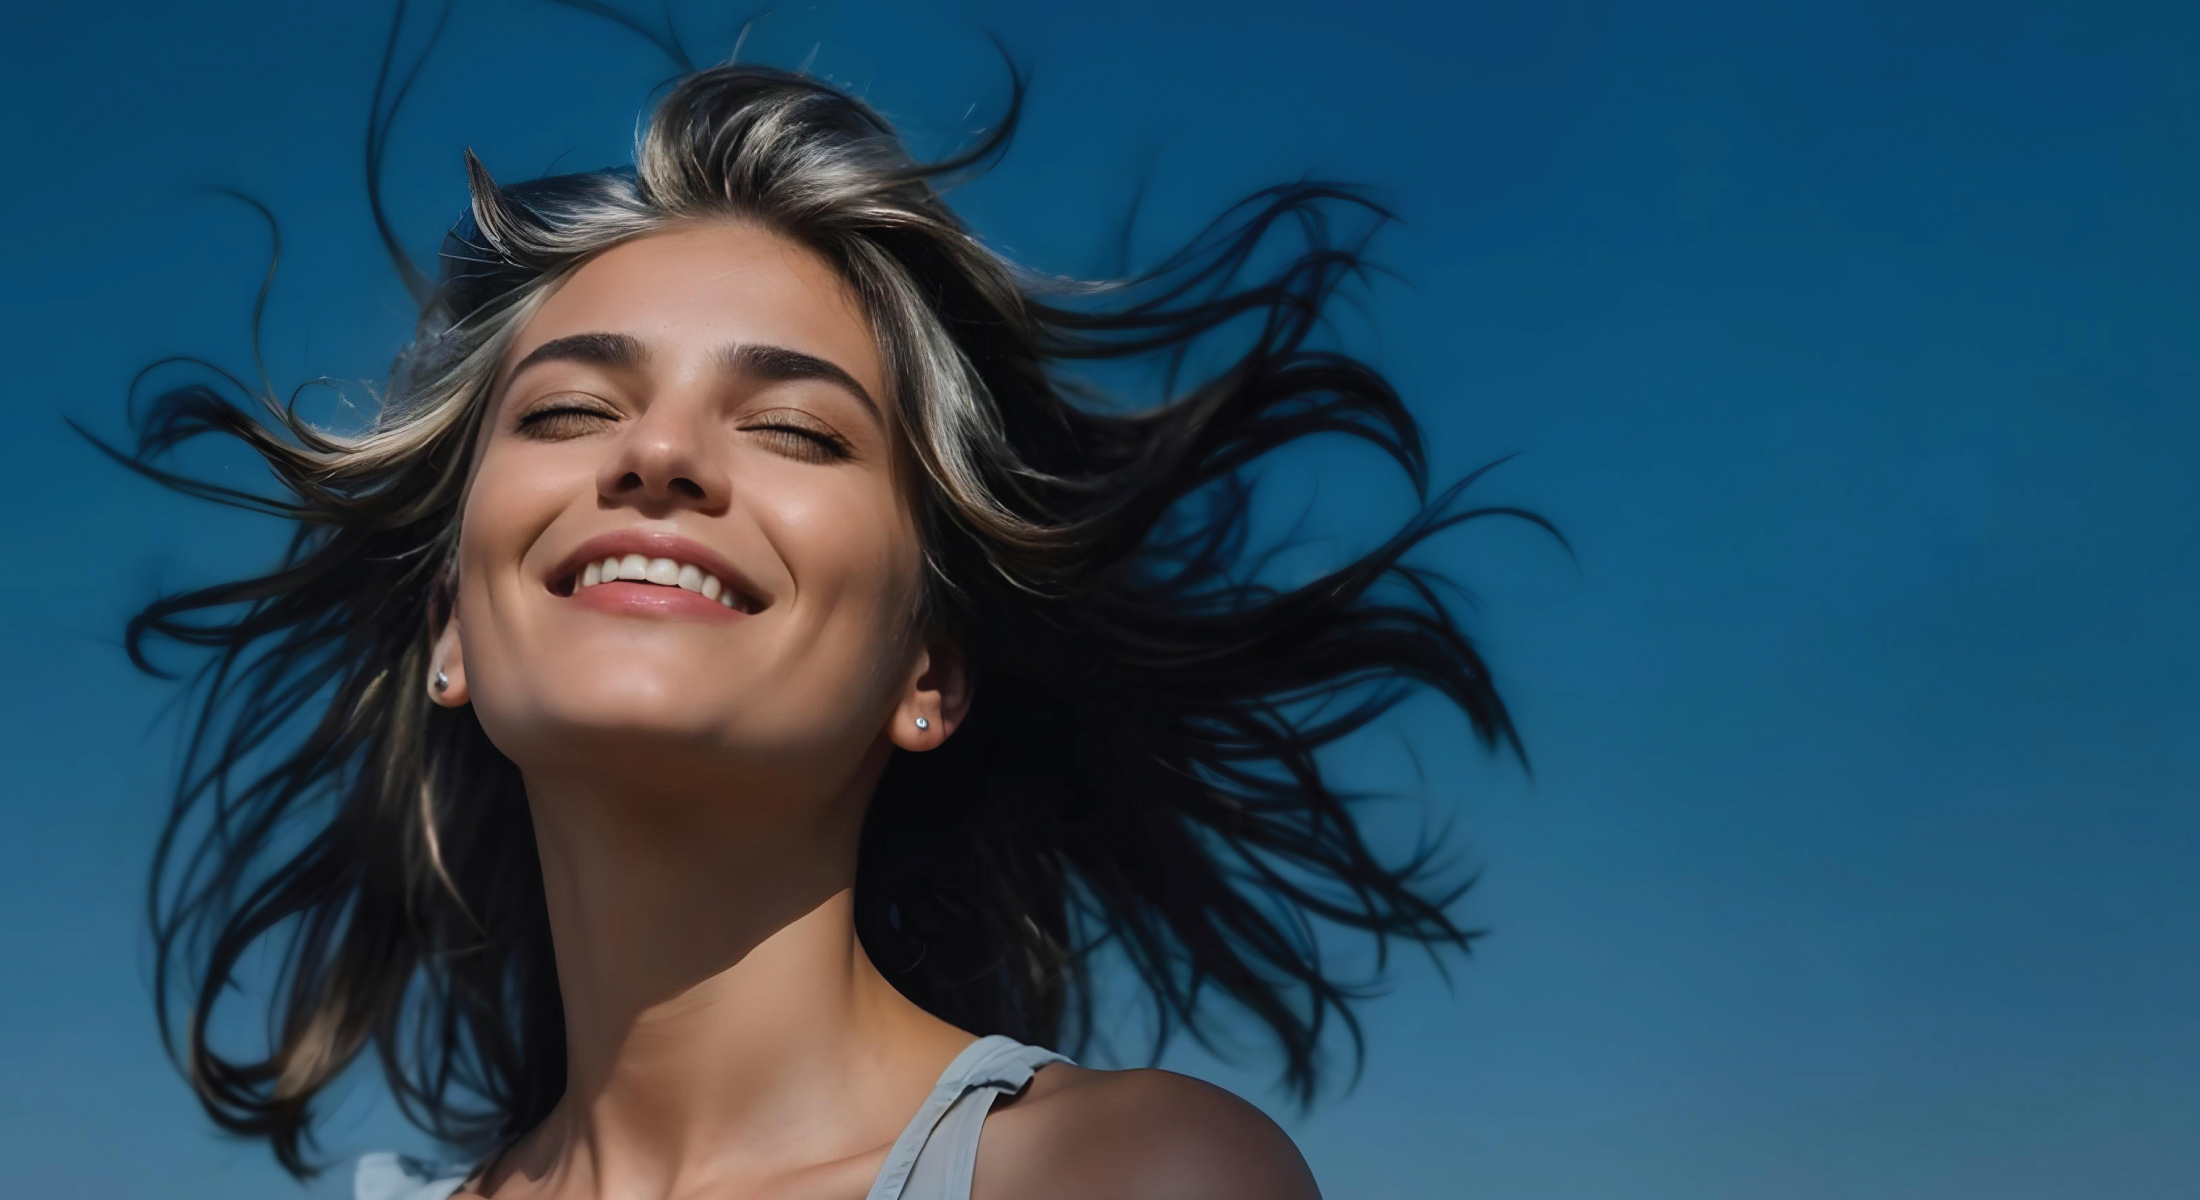
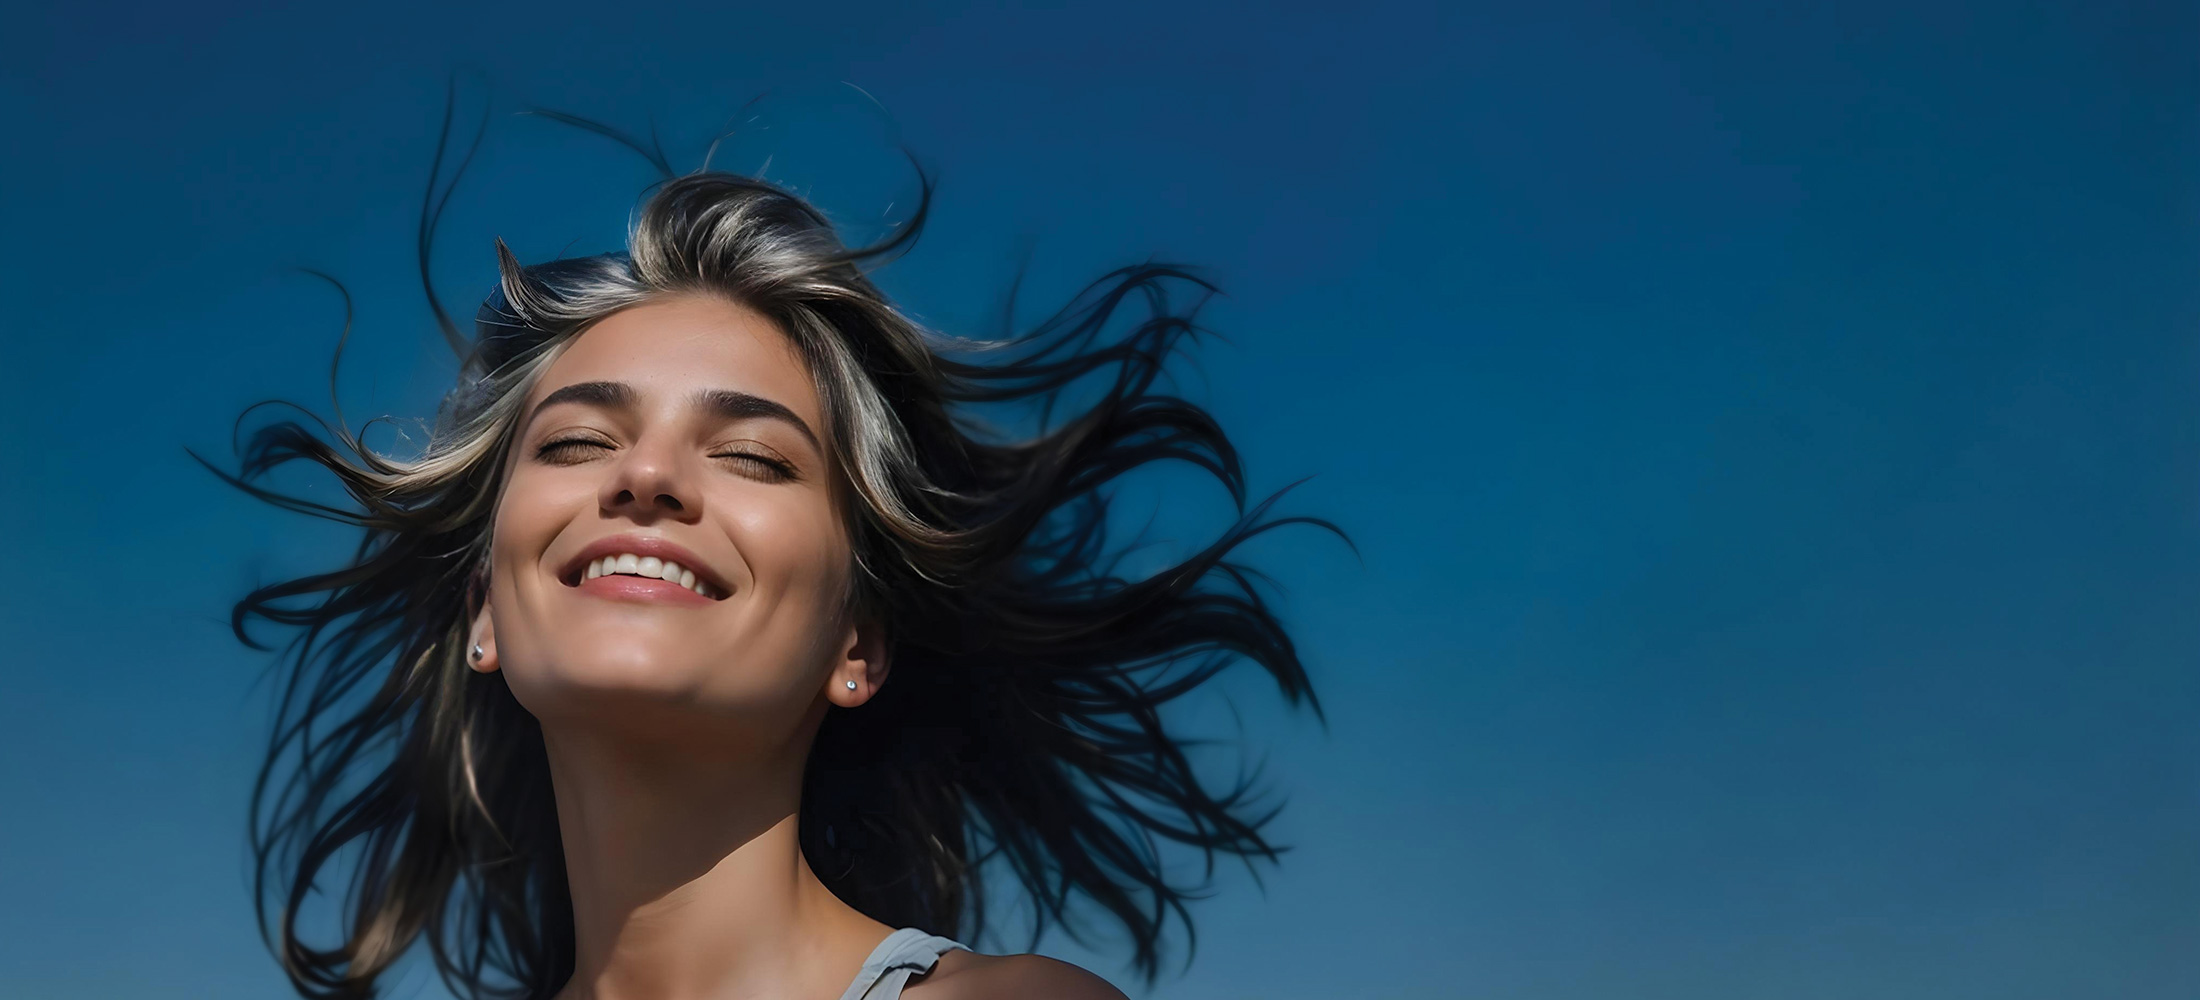
Styles almost ready

diff --git a/src/App.jsx b/src/App.jsx
@@ -94,7 +94,6 @@ function App() {
 
   return (
     <div className="app">
-     <div>
         <header> 
            <div className="container header-container">
             <div>
@@ -112,8 +111,8 @@ function App() {
           <section id="video-section" className="video-section">
             <div className="container video-container">
            <iframe 
-           width="100%" 
-           height="100%" 
+           width="90%" 
+           height="80%" 
            src="https://www.youtube.com/embed/DDbhfS_XukM?si=2JazOuhSEVcrqFuS" 
            title="YouTube video player" 
            frameBorder="0" 
@@ -279,8 +278,8 @@ function App() {
             <div className="container">
             <div className="video-container">
               <iframe 
-                width="100%" 
-                height="100%" 
+                width="90%" 
+                height="80%" 
                 src="https://www.youtube.com/embed/dQw4w9WgXcQ" 
                 title="Second Sample Video"
                 frameBorder="0" 
@@ -292,10 +291,9 @@ function App() {
         </section>
       </main>
 
-      <footer>
-        <p>&copy; 2025 Campaign Name. All rights reserved.</p>
+      <footer className="footer-styles">
+        <p>&copy; 2025 Lo que importa de verdad.</p>
         </footer>
-        </div>
     </div>
   )
 }

diff --git a/src/App.css b/src/App.css
@@ -16,6 +16,7 @@ header {
   position: fixed;
   top: 0;
   width: 100%;
+  height: 90px;
   padding: 0 2rem;
   background-color: #439a4c;
   box-shadow: 0 2px 4px rgba(0, 0, 0, 0.1);
@@ -70,7 +71,7 @@ button.button-message__styles {
 
 /* Main content styles */
 main {
-  margin-top: 70px; /* Header height + some spacing */
+  margin-top: 90px; /* Header height + some spacing */
 }
 
 .container {
@@ -108,12 +109,15 @@ main {
   width: 100%;
   max-width: 1400px;
   aspect-ratio: 16/9;
+    display: flex;
+  align-items: center;
+  justify-content: center;
   margin: 0 auto;
 }
 
 /* Update info section */
 .info-section {
-  min-height: 100vh;
+  min-height: 85vh;
   padding: 4rem 1rem;
   background: url('assets/fondo-info-section.jpg') center/cover fixed;
   display: flex;
